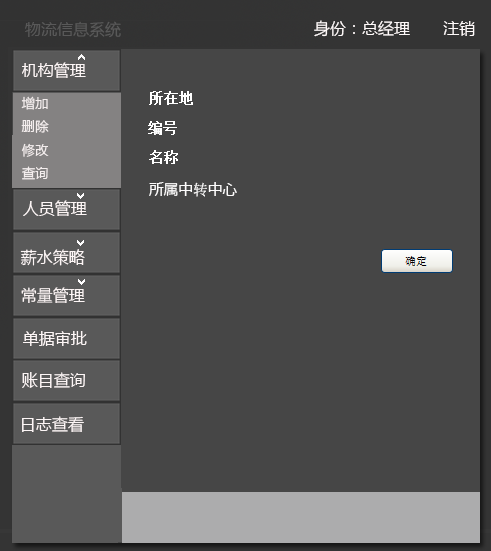
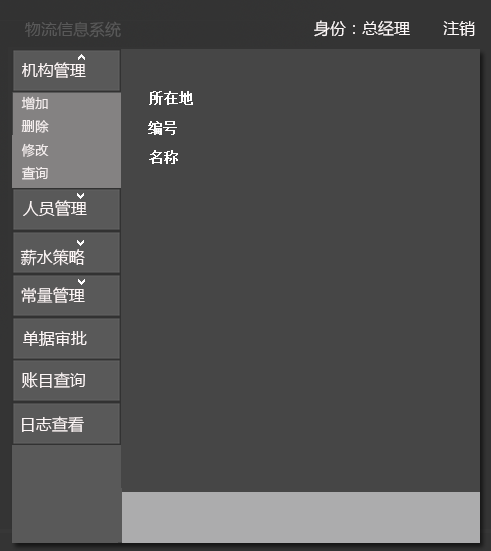
manager

Changed region(s): [[0.7637, 0.4319, 0.947, 0.4936], [0.3055, 0.3085, 0.4888, 0.3702]]

diff --git a/ExpressSystem/client/src/main/java/nju/sec/yz/ExpressSystem/presentation/managerui/ManagerAgencyObserve.java b/ExpressSystem/client/src/main/java/nju/sec/yz/ExpressSystem/presentation/managerui/ManagerAgencyObserve.java
@@ -72,14 +72,14 @@ public class ManagerAgencyObserve extends JPanel{
 		Id.setForeground(Color.white);
 
 		name = new JLabel();
-		name.setBounds(190, 147, 140, 18);
+		name.setBounds(190, 147, 180, 18);
 		add(name);
 		name.setFont(new Font("Dialog", 1, 15));
 		name.setForeground(Color.white);
 
 		ImageIcon backIcon = new ImageIcon("graphic/manager/button/back.png");
 		back = new JButton(backIcon);
-		back.setBounds(290, 240, 81, 20);
+		back.setBounds(370, 360, 81, 20);
 		add(back);
 
 		back.addMouseListener(new MouseAdapter() {
@@ -120,7 +120,7 @@ private void iniTransit(TransitVO vo) {
 
 	JScrollPane jsc=new JScrollPane(table);
 	jsc.setVisible(true);
-    jsc.setBounds(137,94,318,181);
+    jsc.setBounds(137,175,318,181);
     add(jsc);
 	
 }
@@ -137,7 +137,7 @@ private void iniPosition(TransitVO vo, String Pid) {
 	
 	ImageIcon filltransit = new ImageIcon("graphic/manager/button/transit.png");
 	transit = new JLabel(filltransit);
-	transit.setBounds(147, 182, 89, 21);
+	transit.setBounds(147, 179, 89, 21);
 	add(transit);
 
 	String transit = listVO.get(count).getTransitId();

diff --git a/ExpressSystem/client/src/main/java/nju/sec/yz/ExpressSystem/presentation/managerui/ManagerAgencyModify.java b/ExpressSystem/client/src/main/java/nju/sec/yz/ExpressSystem/presentation/managerui/ManagerAgencyModify.java
@@ -131,7 +131,7 @@ public class ManagerAgencyModify extends JPanel {
 		
 		ImageIcon filltransit = new ImageIcon("graphic/manager/button/transit.png");
 		transit = new JLabel(filltransit);
-		confirm.setBounds(147, 182, 89, 21);
+		transit.setBounds(147, 182, 89, 21);
 		add(transit);
 
 		String transit = listVO.get(count).getTransitId();
